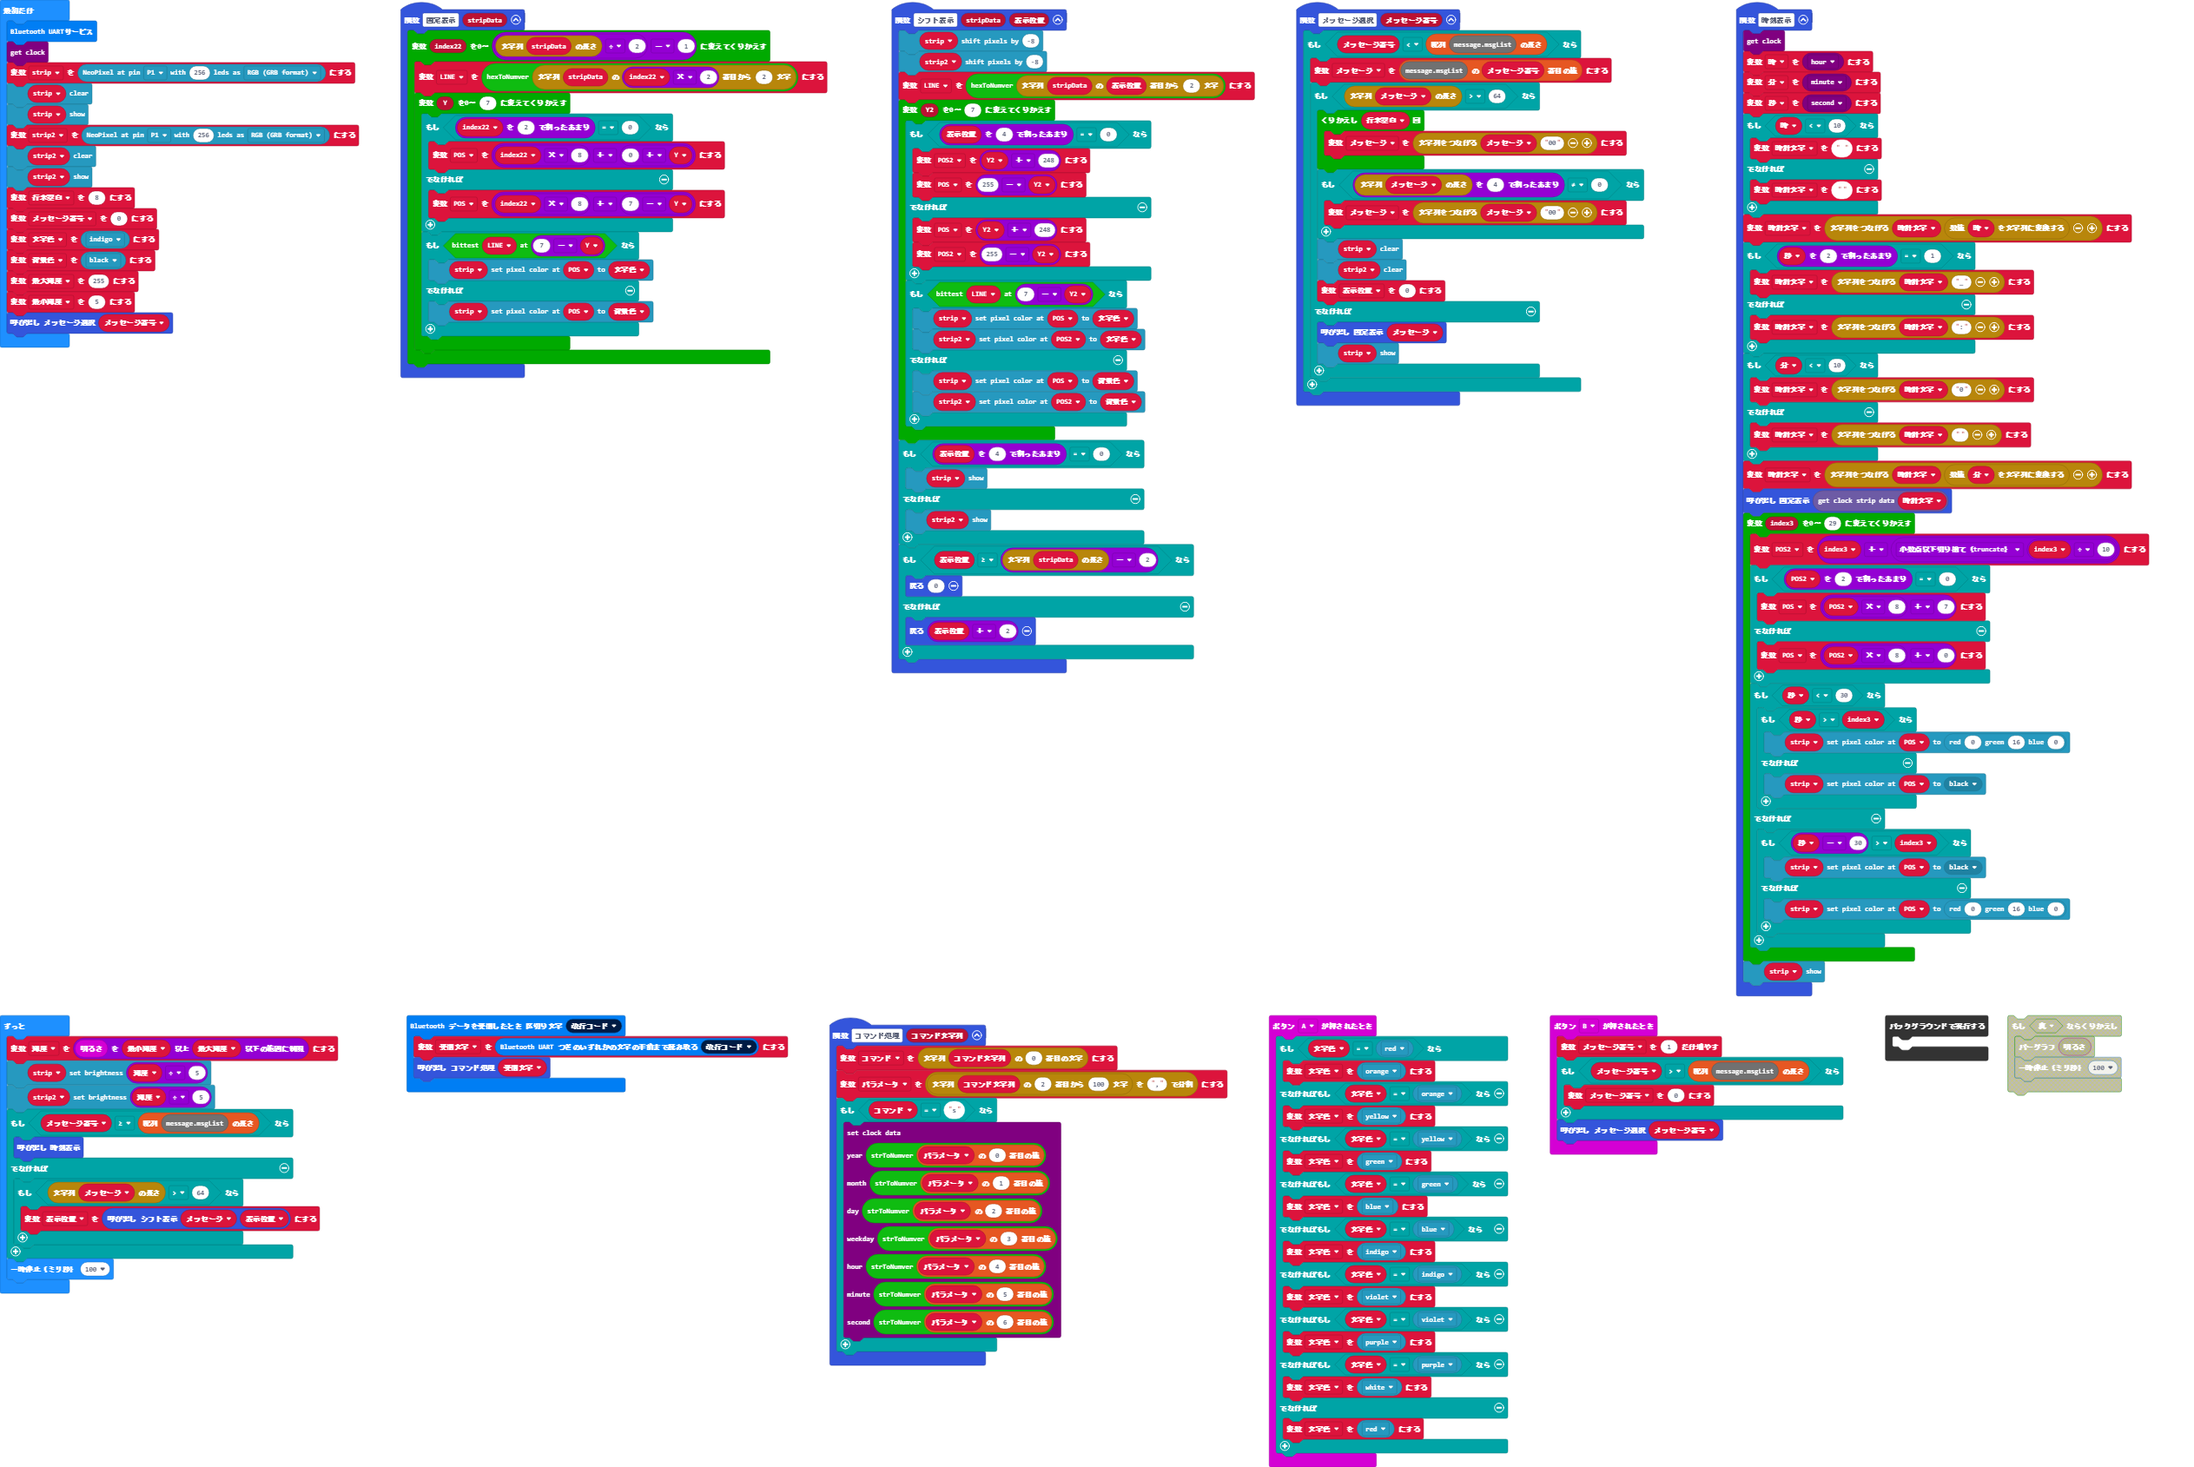
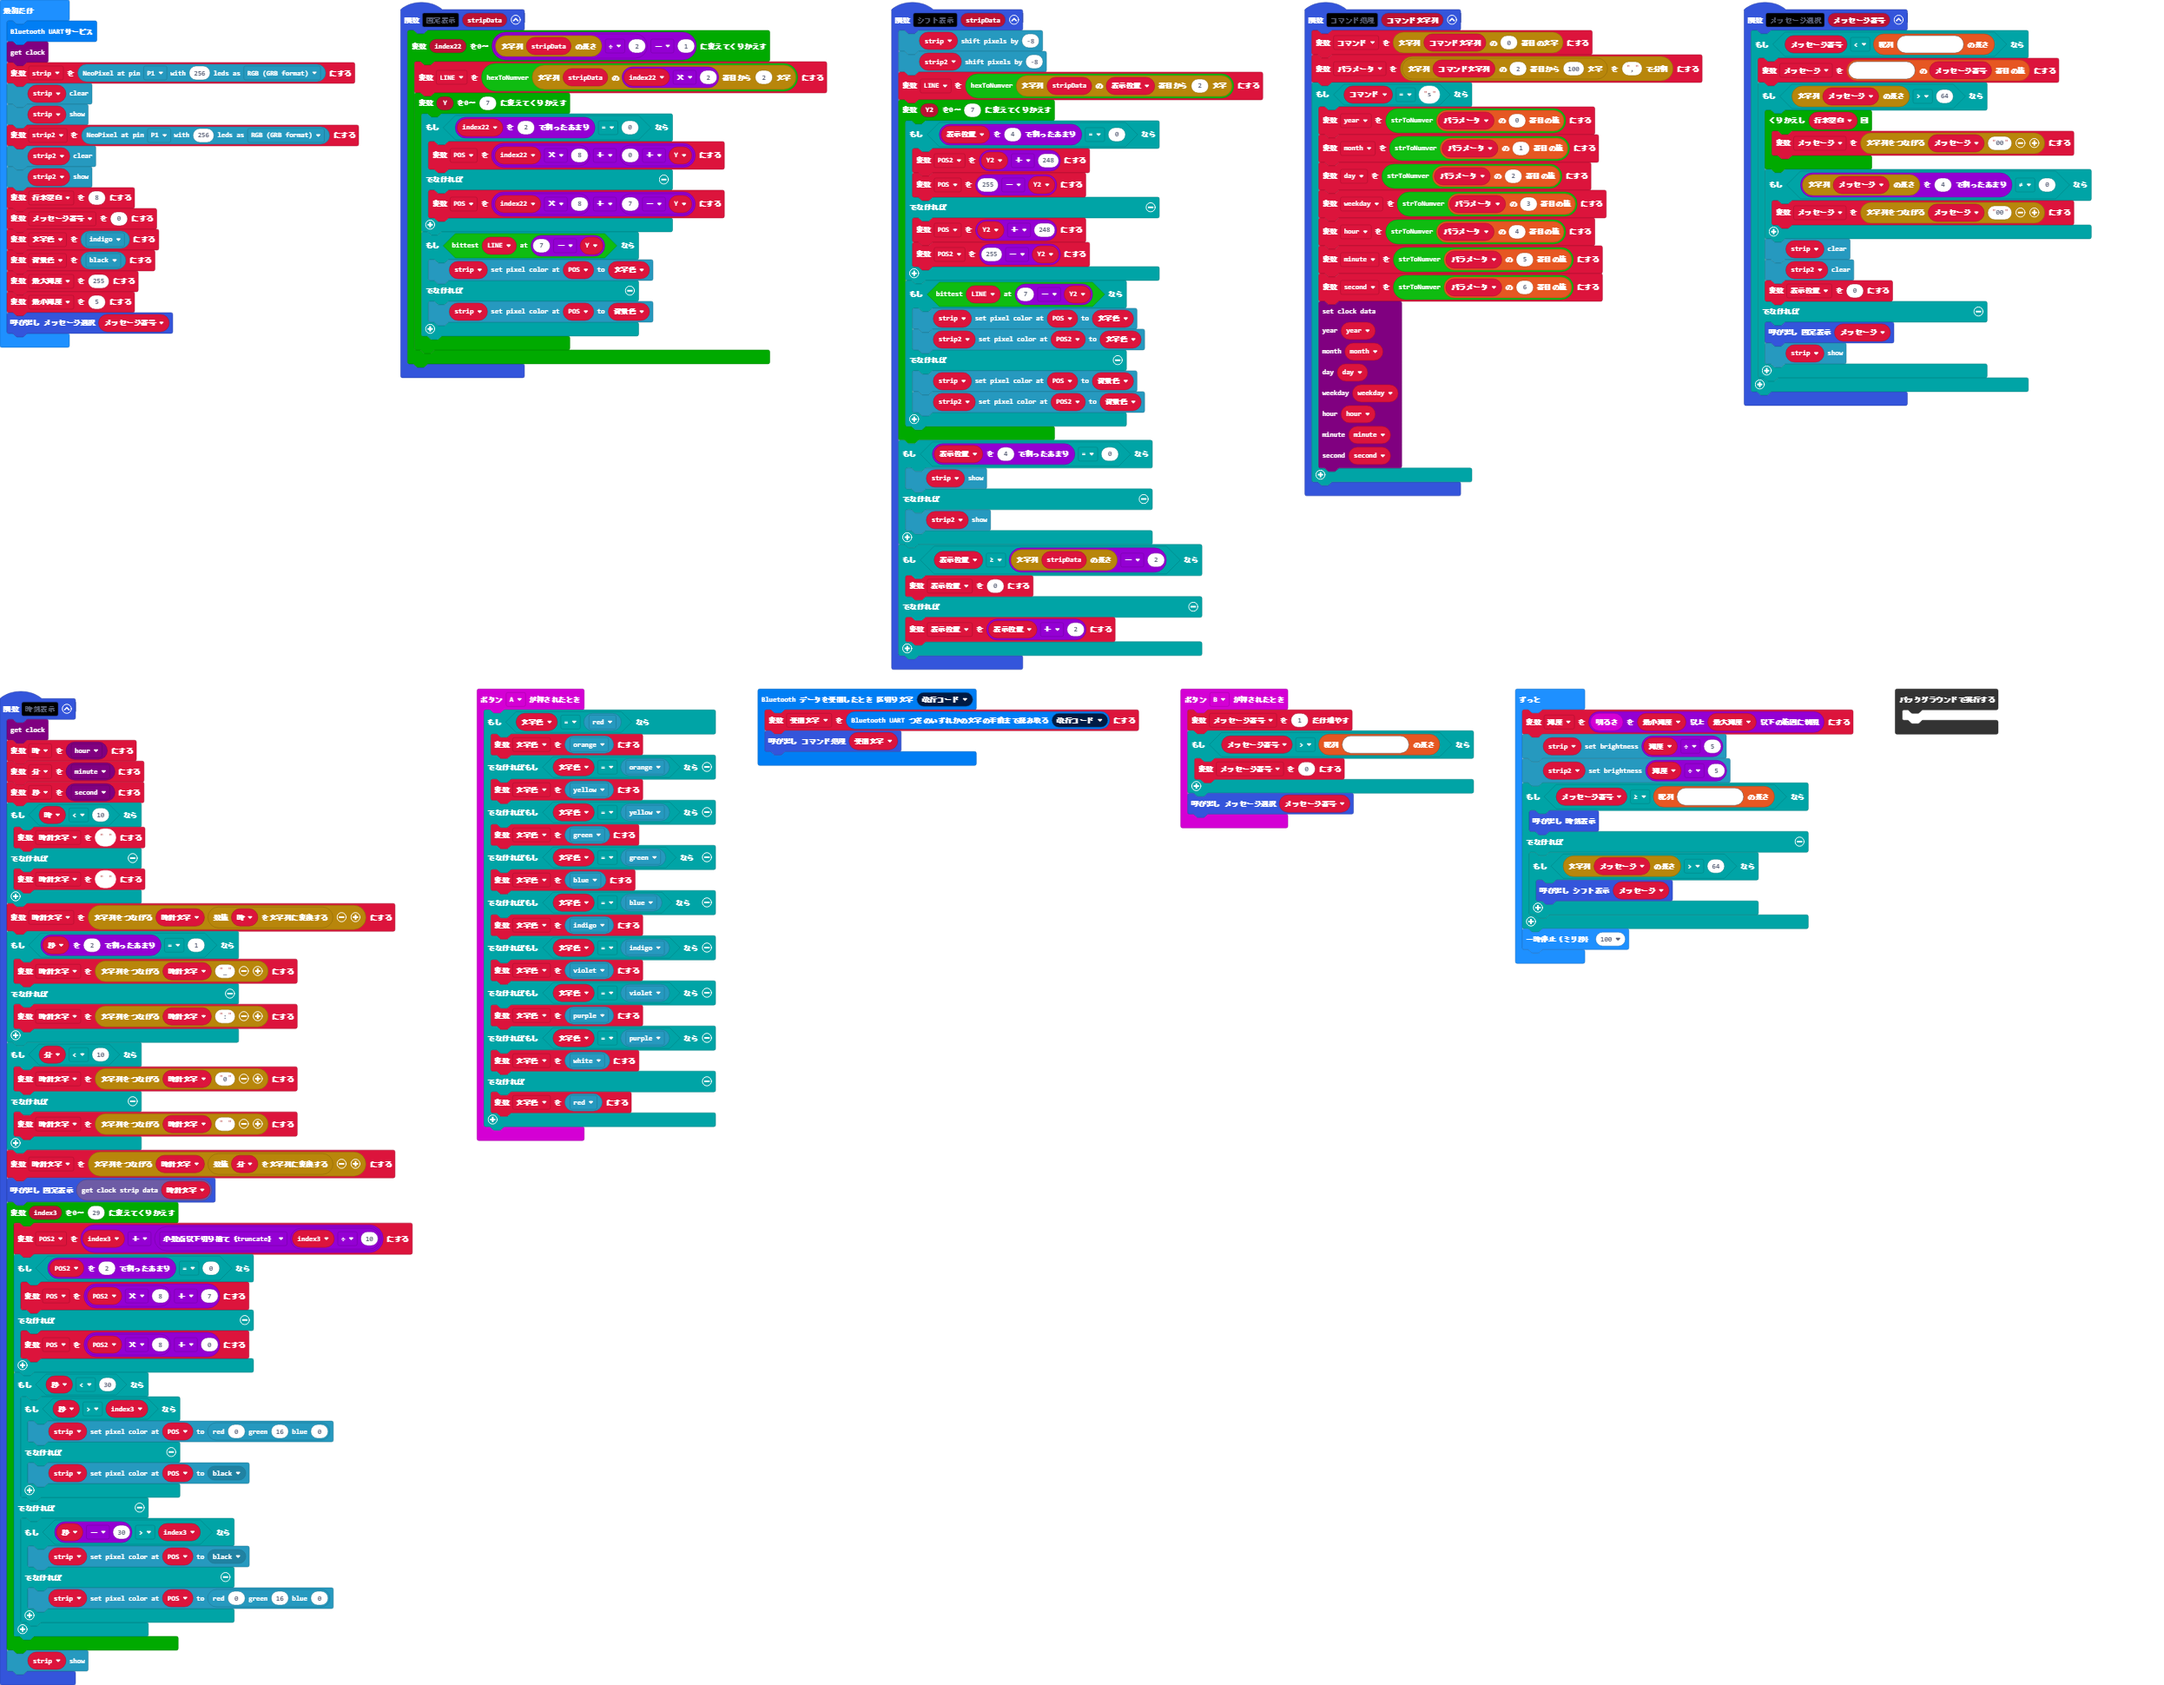
Update pxt.json, main.blocks, main.ts

diff --git a/main.ts b/main.ts
@@ -1,3 +1,7 @@
+bluetooth.onUartDataReceived(serial.delimiters(Delimiters.NewLine), function () {
+    受信文字 = bluetooth.uartReadUntil(serial.delimiters(Delimiters.NewLine))
+    コマンド処理(受信文字)
+})
 function 固定表示 (stripData: string) {
     for (let index22 = 0; index22 <= stripData.length / 2 - 1; index22++) {
         LINE = bit.hexToNumber(stripData.substr(index22 * 2, 2))
@@ -15,7 +19,7 @@ function 固定表示 (stripData: string) {
         }
     }
 }
-function シフト表示 (stripData: string, 表示位置: number) {
+function シフト表示 (stripData: string) {
     strip.shift(-8)
     strip2.shift(-8)
     LINE = bit.hexToNumber(stripData.substr(表示位置, 2))
@@ -41,48 +45,30 @@ function シフト表示 (stripData: string, 表示位置: number) {
         strip2.show()
     }
     if (表示位置 >= stripData.length - 2) {
-        return 0
+        表示位置 = 0
     } else {
-        return 表示位置 + 2
+        表示位置 = 表示位置 + 2
     }
 }
-input.onButtonPressed(Button.A, function () {
-    if (文字色 == neopixel.colors(NeoPixelColors.Red)) {
-        文字色 = neopixel.colors(NeoPixelColors.Orange)
-    } else if (文字色 == neopixel.colors(NeoPixelColors.Orange)) {
-        文字色 = neopixel.colors(NeoPixelColors.Yellow)
-    } else if (文字色 == neopixel.colors(NeoPixelColors.Yellow)) {
-        文字色 = neopixel.colors(NeoPixelColors.Green)
-    } else if (文字色 == neopixel.colors(NeoPixelColors.Green)) {
-        文字色 = neopixel.colors(NeoPixelColors.Blue)
-    } else if (文字色 == neopixel.colors(NeoPixelColors.Blue)) {
-        文字色 = neopixel.colors(NeoPixelColors.Indigo)
-    } else if (文字色 == neopixel.colors(NeoPixelColors.Indigo)) {
-        文字色 = neopixel.colors(NeoPixelColors.Violet)
-    } else if (文字色 == neopixel.colors(NeoPixelColors.Violet)) {
-        文字色 = neopixel.colors(NeoPixelColors.Purple)
-    } else if (文字色 == neopixel.colors(NeoPixelColors.Purple)) {
-        文字色 = neopixel.colors(NeoPixelColors.White)
-    } else {
-        文字色 = neopixel.colors(NeoPixelColors.Red)
-    }
-})
-bluetooth.onUartDataReceived(serial.delimiters(Delimiters.NewLine), function () {
-    受信文字 = bluetooth.uartReadUntil(serial.delimiters(Delimiters.NewLine))
-    コマンド処理(受信文字)
-})
 function コマンド処理 (コマンド文字列: string) {
     コマンド = コマンド文字列.charAt(0)
     パラメータ = コマンド文字列.substr(2, 100).split(",")
     if (コマンド == "s") {
+        year = bit.strToNumber(パラメータ[0])
+        month = bit.strToNumber(パラメータ[1])
+        day = bit.strToNumber(パラメータ[2])
+        weekday = bit.strToNumber(パラメータ[3])
+        hour = bit.strToNumber(パラメータ[4])
+        minute = bit.strToNumber(パラメータ[5])
+        second = bit.strToNumber(パラメータ[6])
         rtc.setClock(
-        bit.strToNumber(パラメータ[0]),
-        bit.strToNumber(パラメータ[1]),
-        bit.strToNumber(パラメータ[2]),
-        bit.strToNumber(パラメータ[3]),
-        bit.strToNumber(パラメータ[4]),
-        bit.strToNumber(パラメータ[5]),
-        bit.strToNumber(パラメータ[6])
+        year,
+        month,
+        day,
+        weekday,
+        hour,
+        minute,
+        second
         )
     }
 }
@@ -158,19 +144,47 @@ function 時刻表示 () {
     }
     strip.show()
 }
+input.onButtonPressed(Button.A, function () {
+    if (文字色 == neopixel.colors(NeoPixelColors.Red)) {
+        文字色 = neopixel.colors(NeoPixelColors.Orange)
+    } else if (文字色 == neopixel.colors(NeoPixelColors.Orange)) {
+        文字色 = neopixel.colors(NeoPixelColors.Yellow)
+    } else if (文字色 == neopixel.colors(NeoPixelColors.Yellow)) {
+        文字色 = neopixel.colors(NeoPixelColors.Green)
+    } else if (文字色 == neopixel.colors(NeoPixelColors.Green)) {
+        文字色 = neopixel.colors(NeoPixelColors.Blue)
+    } else if (文字色 == neopixel.colors(NeoPixelColors.Blue)) {
+        文字色 = neopixel.colors(NeoPixelColors.Indigo)
+    } else if (文字色 == neopixel.colors(NeoPixelColors.Indigo)) {
+        文字色 = neopixel.colors(NeoPixelColors.Violet)
+    } else if (文字色 == neopixel.colors(NeoPixelColors.Violet)) {
+        文字色 = neopixel.colors(NeoPixelColors.Purple)
+    } else if (文字色 == neopixel.colors(NeoPixelColors.Purple)) {
+        文字色 = neopixel.colors(NeoPixelColors.White)
+    } else {
+        文字色 = neopixel.colors(NeoPixelColors.Red)
+    }
+})
 let 輝度 = 0
 let 時計文字 = ""
 let 秒 = 0
 let 分 = 0
 let 時 = 0
-let 表示位置 = 0
 let メッセージ = ""
+let second = 0
+let minute = 0
+let hour = 0
+let weekday = 0
+let day = 0
+let month = 0
+let year = 0
 let パラメータ: string[] = []
 let コマンド = ""
-let 受信文字 = ""
 let POS2 = 0
+let 表示位置 = 0
 let POS = 0
 let LINE = 0
+let 受信文字 = ""
 let 背景色 = 0
 let 文字色 = 0
 let メッセージ番号 = 0
@@ -200,7 +214,7 @@ basic.forever(function () {
         時刻表示()
     } else {
         if (メッセージ.length > 64) {
-            表示位置 = シフト表示(メッセージ, 表示位置)
+            シフト表示(メッセージ)
         }
     }
     basic.pause(100)
